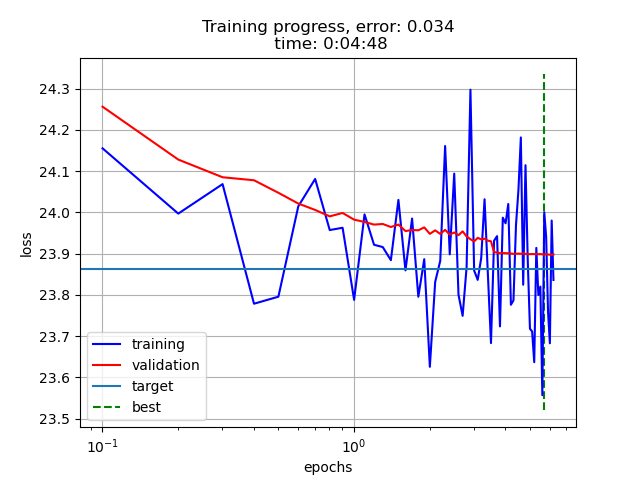
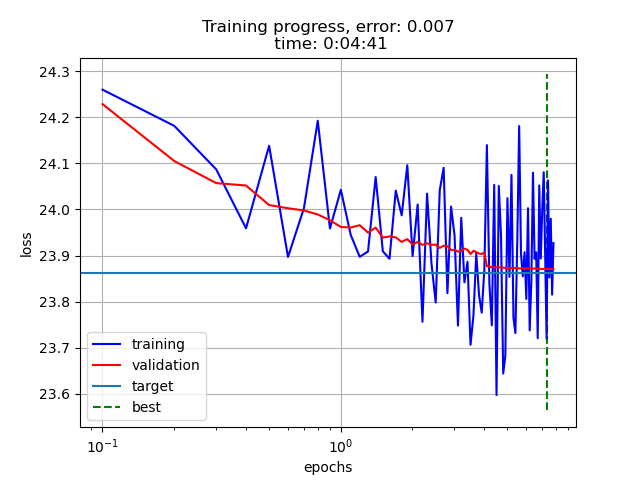
Change knn algorithm to always use kd_tree. Brute can take 8+ hours.

diff --git a/Capacity/Estimation/Uniformization/NFEE-main/ent_est/entropy.py b/Capacity/Estimation/Uniformization/NFEE-main/ent_est/entropy.py
@@ -14,7 +14,7 @@ from misc_CPDSSS.util import BackgroundThread
 
 
 
-def tkl_tksg(y, n=None, k=1, max_k=None, algorithm = 'auto', shuffle=True, rng=np.random):
+def tkl_tksg(y, n=None, k=1, max_k=None, shuffle=True, rng=np.random):
     """Evaluate truncated knn KL and KSG algorithms
     Ziqiao Ao and Jinglai Li. “Entropy estimation via uniformization”
 
@@ -58,6 +58,7 @@ def tkl_tksg(y, n=None, k=1, max_k=None, algorithm = 'auto', shuffle=True, rng=n
     
     #Auto algorithm switches to brute after dim=16. For truncated, better to swap at dim=30
     algorithm = 'brute' if dim>30 else 'kd_tree'
+    algorithm = 'kd_tree' #should almost always be faster for the uniform truncated case (range [0 1])
 
 
     # knn search
@@ -277,6 +278,7 @@ def tkl(y, n=None, k=1, shuffle=True, rng=np.random):
 
     #Auto algorithm switches to brute after dim=16. For truncated, better to swap at dim=30
     algorithm = 'brute' if dim>30 else 'kd_tree'
+    algorithm = 'kd_tree' #should almost always be faster for the uniform truncated case (range [0 1])
 
     # knn search
     nbrs = NearestNeighbors(n_neighbors=k+1, algorithm=algorithm, metric='chebyshev',n_jobs=n_jobs).fit(y)
@@ -428,7 +430,8 @@ def tksg(y, n=None, k=1, shuffle=True, rng=np.random):
         rng.shuffle(y)
     
     #Auto algorithm switches to brute after dim=16. For truncated, better to swap at dim=30
-    algorithm = 'brute' if dim>30 else 'kd_tree'
+    # algorithm = 'brute' if dim>30 else 'kd_tree'
+    algorithm = 'kd_tree' #should almost always be faster for the uniform truncated case (range [0 1])
 
     # knn search
     nbrs = NearestNeighbors(n_neighbors=k+1, algorithm=algorithm, metric='chebyshev',n_jobs=n_jobs).fit(y)

diff --git a/Capacity/Estimation/Uniformization/NFEE-main/batch_size_test.py b/Capacity/Estimation/Uniformization/NFEE-main/batch_size_test.py
@@ -19,7 +19,7 @@ from ml.trainers import ModelCheckpointer
 
 knn_samples = 100000
 n_train_samples = 100000
-n_trials = 10
+n_trials = 20
 val_tol = 0.001
 # val_tol = 0.5
 patience=5
@@ -27,7 +27,7 @@ N=10
 method='both'
 # layers = [2,3,4]
 # stages = np.arange(12,19,2) #theano gradient breaks for stages>=20
-batch_size = np.power(2,[5,6,7,8,9,10])
+batch_size = np.power(2,[5,6,7,8,9,10,11])
 
 
 error = np.empty((n_trials,len(batch_size)))*np.nan
@@ -37,7 +37,6 @@ H_sim = np.empty((n_trials,len(batch_size)))*np.nan
 
 
 
-iter=0
 
 path = 'temp_data/batch_size/15N_100k_train'
 today=date.today().strftime("%b_%d")
@@ -104,7 +103,7 @@ for i in range(n_trials):
         import re
         pattern = r"error:\s*(0\.\d+)"
         # error[i,mi] = re.search(pattern,title).group(1)
-        error[i,mi] = estimator.model.eval_trnloss(laplace_base) - true_H_laplace
+        error[i,mi] = np.abs(estimator.model.eval_trnloss(laplace_base) - true_H_laplace)
         duration[i,mi] = int(end_time - start_time)
 
         ax.set_title(f"{title}\n time: {tot_time}")
@@ -112,7 +111,7 @@ for i in range(n_trials):
         plt.close()
 
         filename=misc.update_filename(path,filename,i,rename=True)
-        util.io.save((batch_size,N,error,duration),os.path.join(path,filename))
+        util.io.save((batch_size,N,error,duration,H_sim,H_reuse),os.path.join(path,filename))
 
         
 
